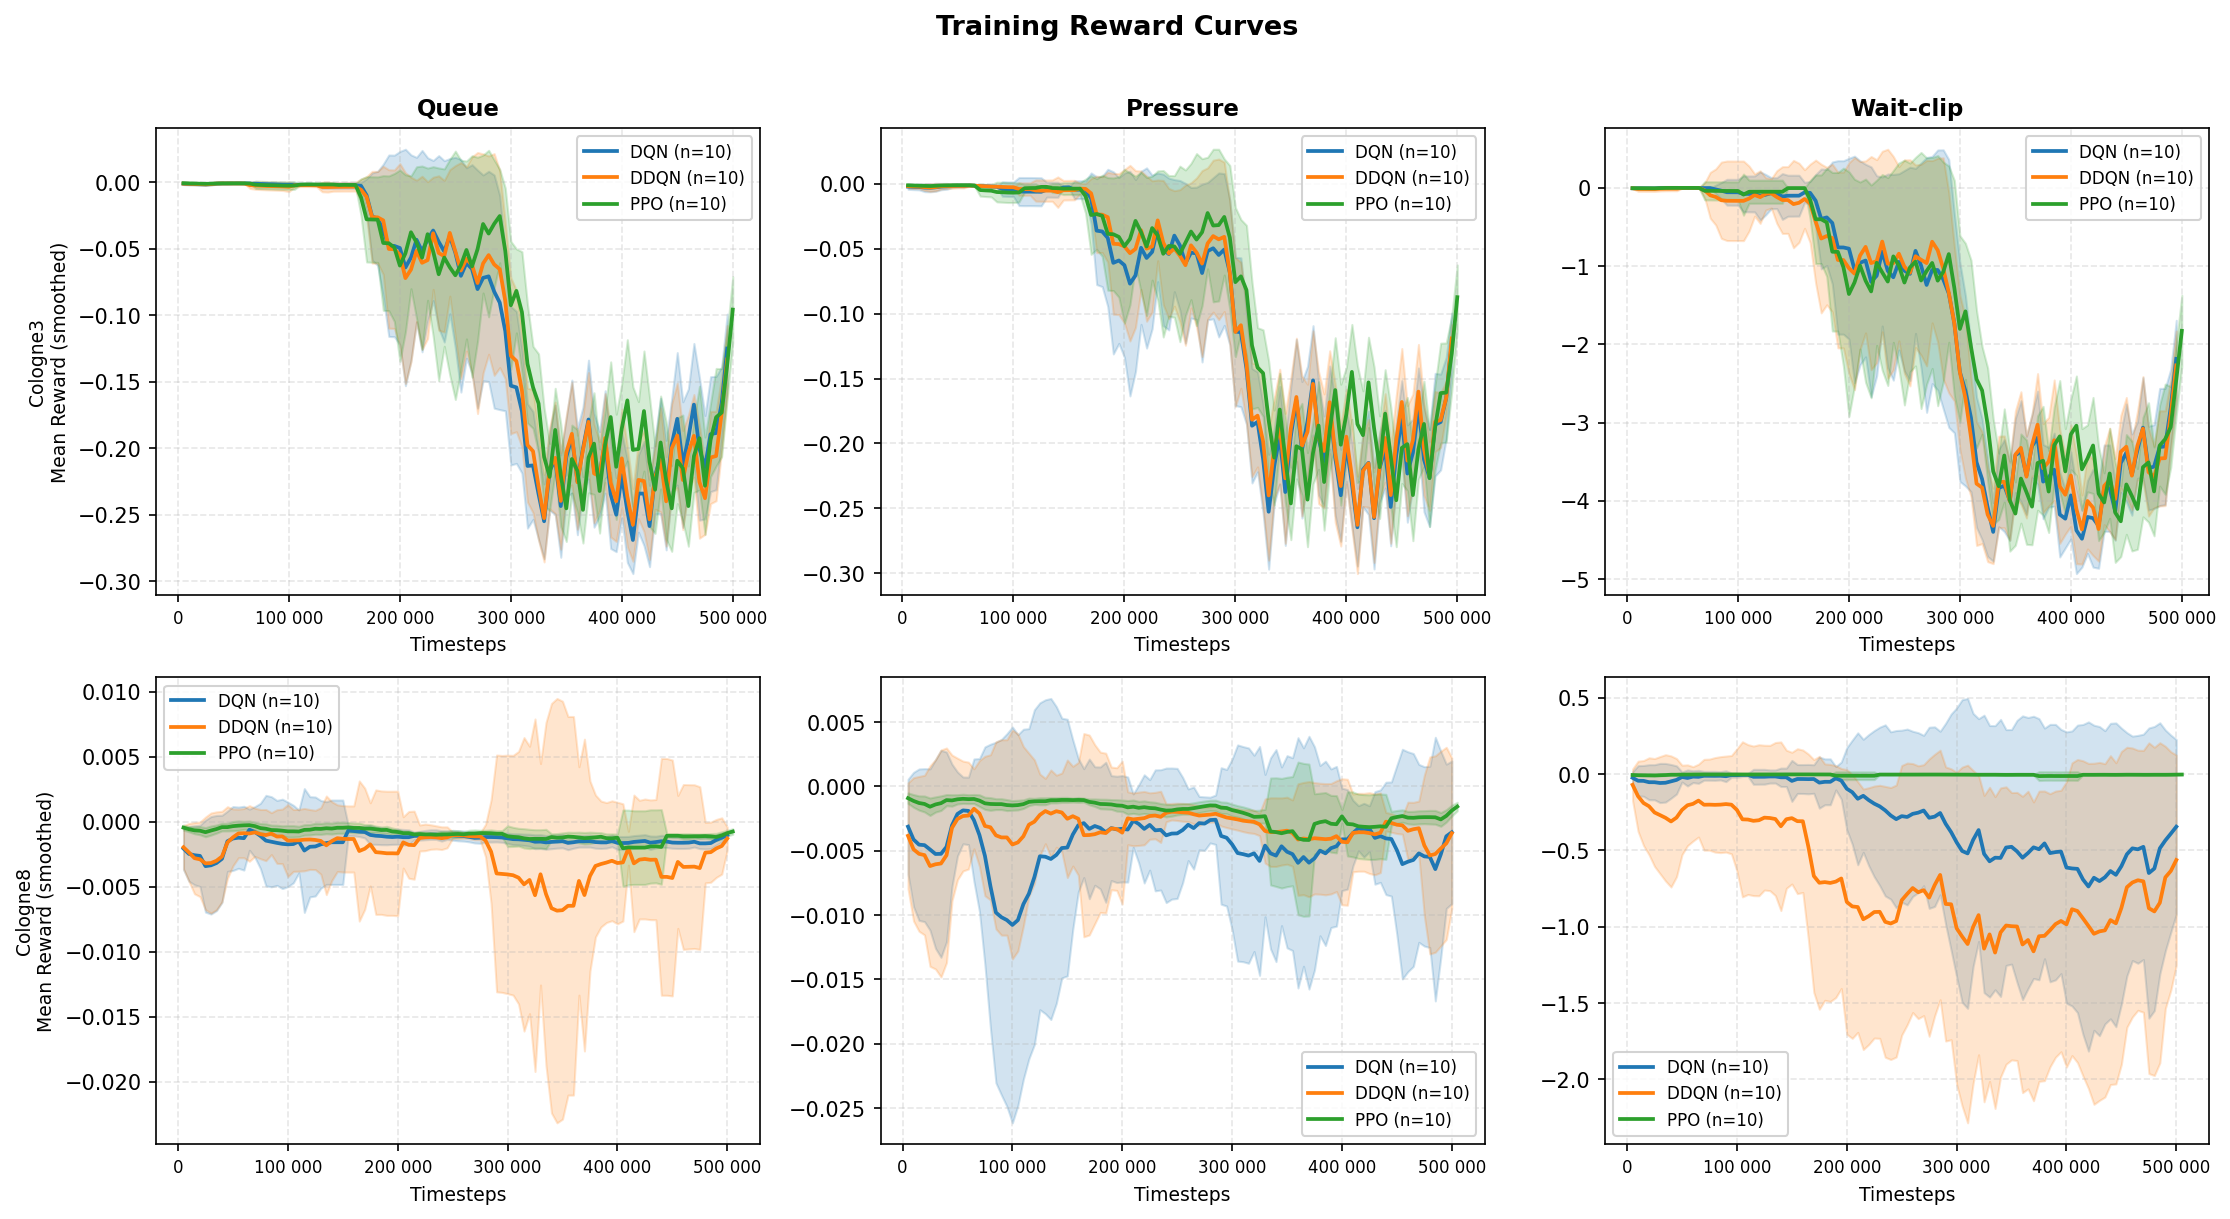
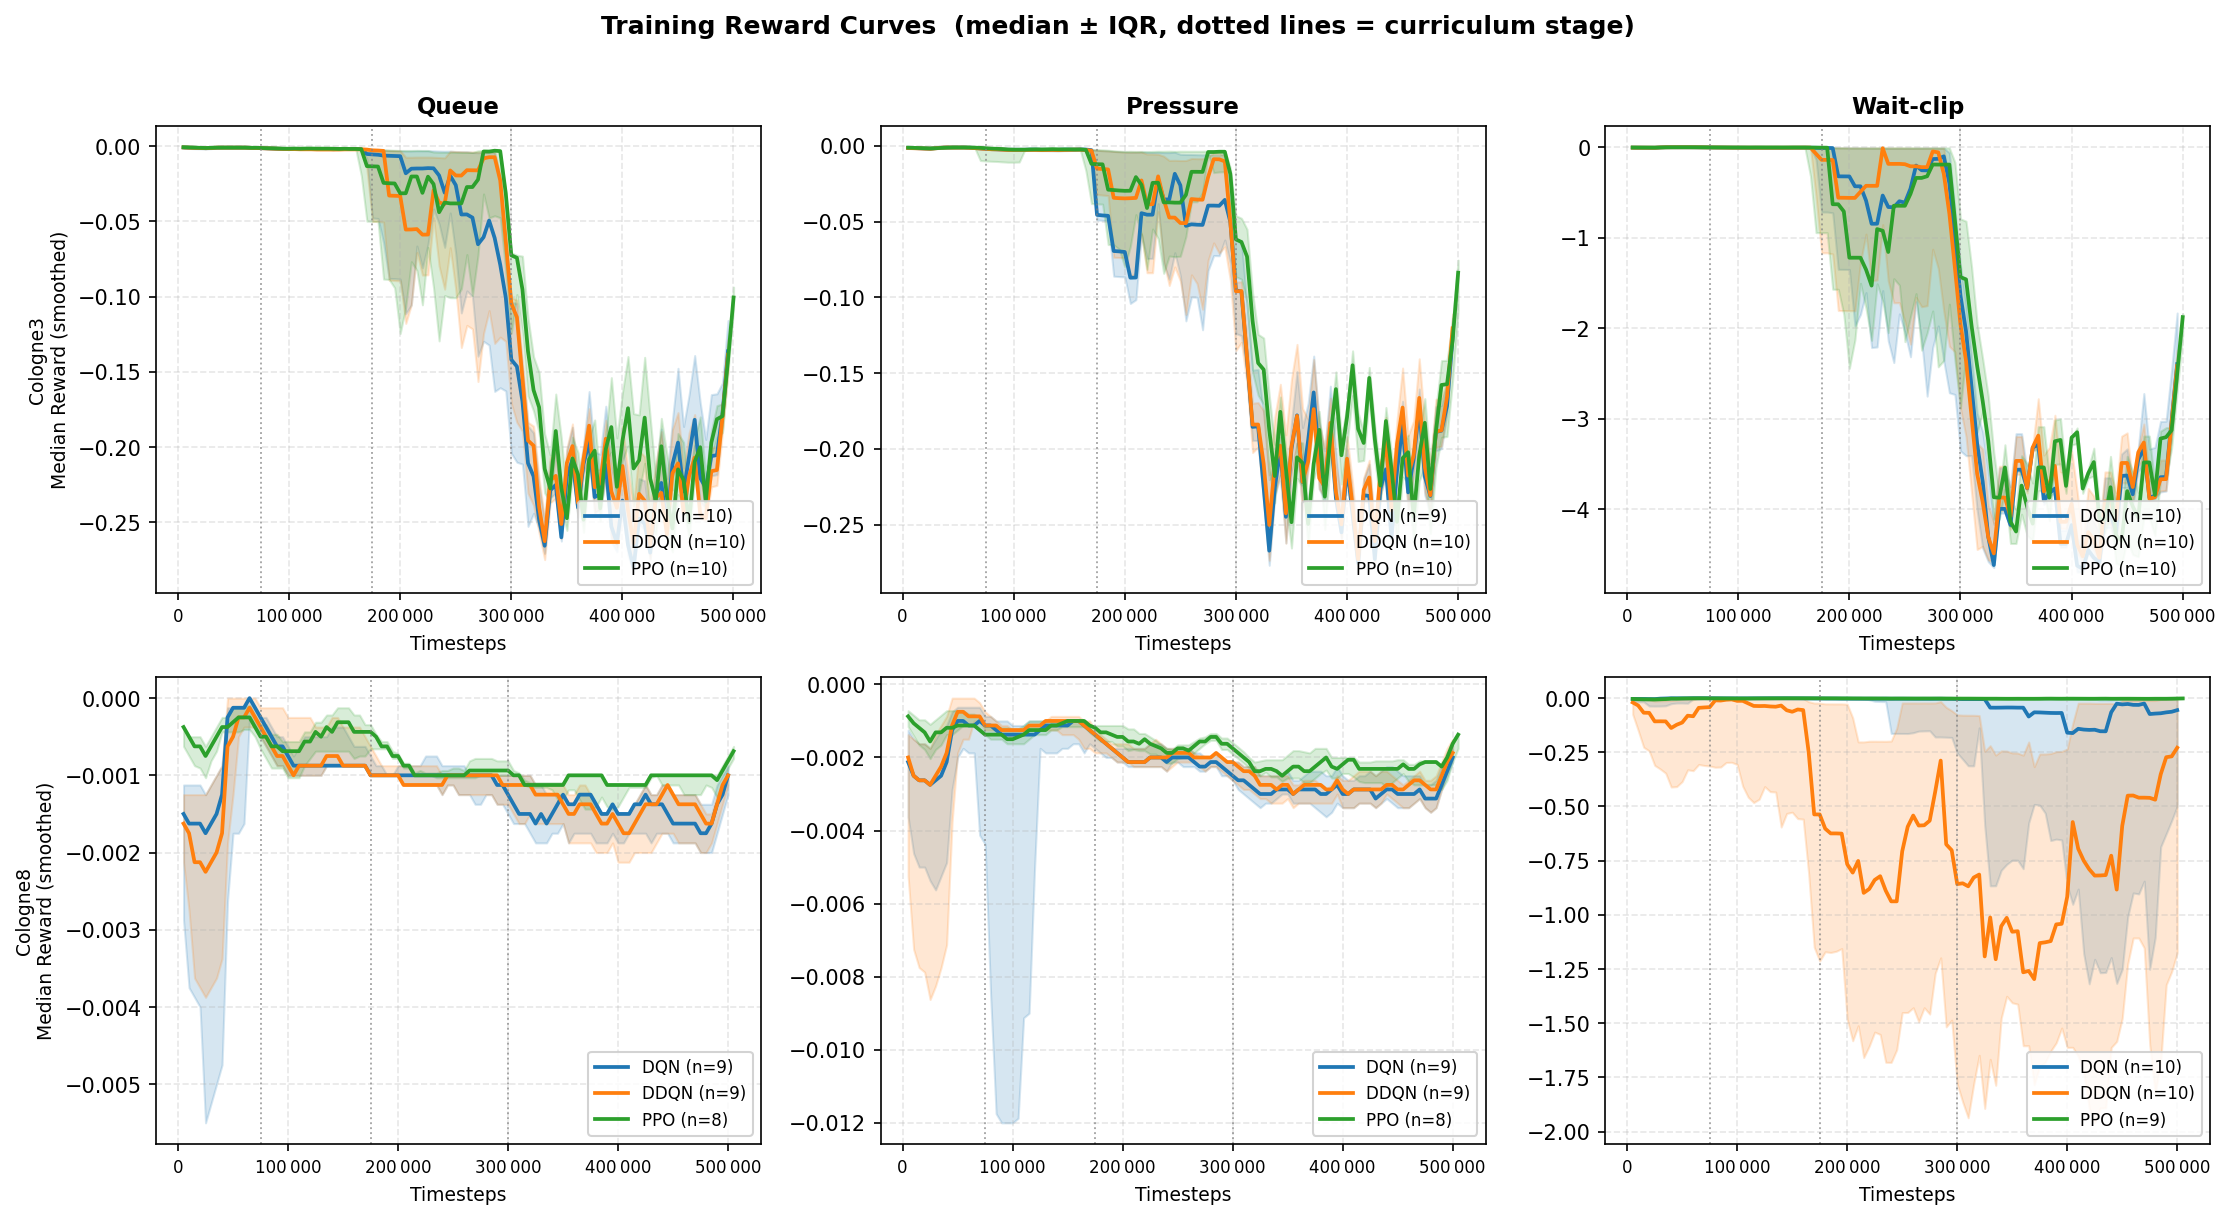
plot learning curves

diff --git a/plot_learning_curves.py b/plot_learning_curves.py
@@ -62,6 +62,16 @@ def parse_log(path: Path):
     return np.array(steps, dtype=float), np.array(rews, dtype=float)
 
 
+def _last_stage_mean(s: np.ndarray, r: np.ndarray,
+                     cutoff: float = 0.6) -> float:
+    """Mean reward in the last (1-cutoff) fraction of training."""
+    if len(s) == 0:
+        return -np.inf
+    threshold = s[-1] * cutoff
+    mask = s >= threshold
+    return float(r[mask].mean()) if mask.any() else float(r[-5:].mean())
+
+
 def collect_algo(log_dir: Path, reward: str) -> dict:
     data: dict = {"dqn": [], "ddqn": [], "ppo": []}
     for f in sorted(log_dir.glob(f"*_{reward}_s*.log")):
@@ -71,6 +81,21 @@ def collect_algo(log_dir: Path, reward: str) -> dict:
         s, r = parse_log(f)
         if len(s) >= 5:
             data[algo].append((s, r))
+
+    # Filter failed seeds: keep seeds whose last-stage mean >= Q1 - 1.5*IQR
+    for algo in list(data.keys()):
+        runs = data[algo]
+        if len(runs) < 3:
+            continue
+        finals = np.array([_last_stage_mean(s, r) for s, r in runs])
+        q1, q3 = np.percentile(finals, 25), np.percentile(finals, 75)
+        fence   = q1 - 1.5 * (q3 - q1)
+        kept    = [(s, r) for (s, r), v in zip(runs, finals) if v >= fence]
+        dropped = len(runs) - len(kept)
+        if dropped:
+            print(f"  [{log_dir.name}] {algo}/{reward}: drop {dropped} outlier seed(s)")
+        data[algo] = kept
+
     return data
 
 
